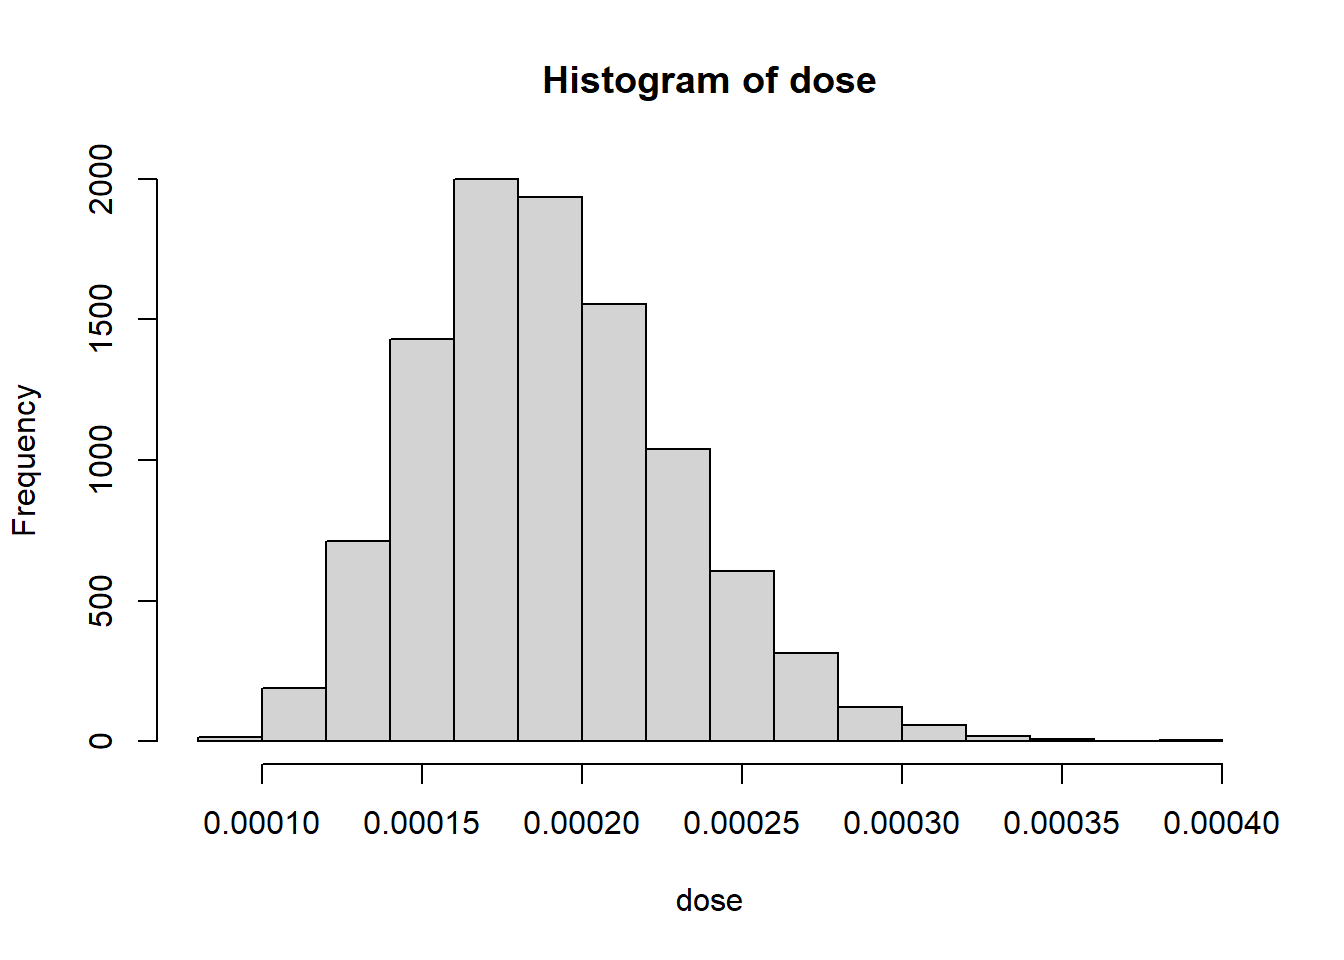
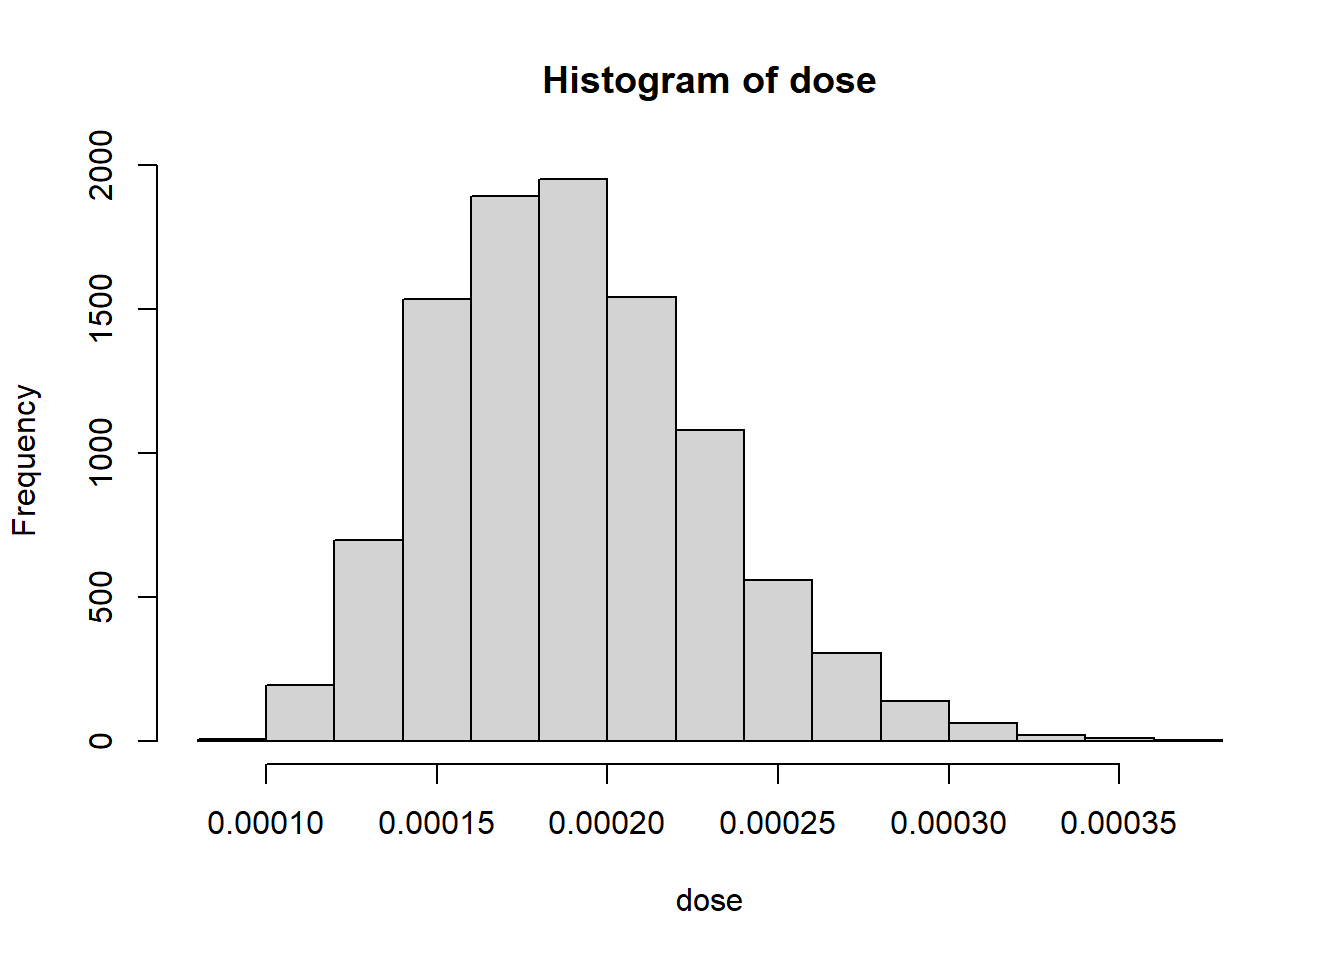
changed indent

diff --git a/docs/ex/useful_functions_with_R.html b/docs/ex/useful_functions_with_R.html
@@ -656,14 +656,14 @@ Tip
 <div class="cell">
 <div class="code-copy-outer-scaffold"><div class="sourceCode cell-code" id="cb39"><pre class="sourceCode r code-with-copy"><code class="sourceCode r"><span id="cb39-1"><a href="#cb39-1" aria-hidden="true" tabindex="-1"></a><span class="fu">runif</span>(<span class="dv">1</span>)</span></code></pre></div><button title="Copy to Clipboard" class="code-copy-button"><i class="bi"></i></button></div>
 <div class="cell-output cell-output-stdout">
-<pre><code>[1] 0.4389154</code></pre>
+<pre><code>[1] 0.1164945</code></pre>
 </div>
 </div>
 <p>Type a function that generates a uniform random number in the interval 1 to 6.</p>
 <div class="cell">
 <div class="code-copy-outer-scaffold"><div class="sourceCode cell-code" id="cb41"><pre class="sourceCode r code-with-copy"><code class="sourceCode r"><span id="cb41-1"><a href="#cb41-1" aria-hidden="true" tabindex="-1"></a><span class="fu">runif</span>(<span class="dv">1</span>,<span class="at">min=</span><span class="dv">1</span>,<span class="at">max=</span><span class="dv">6</span>)</span></code></pre></div><button title="Copy to Clipboard" class="code-copy-button"><i class="bi"></i></button></div>
 <div class="cell-output cell-output-stdout">
-<pre><code>[1] 4.200682</code></pre>
+<pre><code>[1] 3.232069</code></pre>
 </div>
 </div>
 <p>A random draw from a probability distribution can be generated by the inverse method. - Draws pp-values from a uniform distribution between 0 and 1 - Transform them into quantiles of the target distribution</p>
@@ -671,21 +671,21 @@ Tip
 <div class="cell">
 <div class="code-copy-outer-scaffold"><div class="sourceCode cell-code" id="cb43"><pre class="sourceCode r code-with-copy"><code class="sourceCode r"><span id="cb43-1"><a href="#cb43-1" aria-hidden="true" tabindex="-1"></a><span class="fu">qnorm</span>(<span class="fu">runif</span>(<span class="dv">1</span>),m,s)</span></code></pre></div><button title="Copy to Clipboard" class="code-copy-button"><i class="bi"></i></button></div>
 <div class="cell-output cell-output-stdout">
-<pre><code>[1] 13.2399</code></pre>
+<pre><code>[1] 11.46351</code></pre>
 </div>
 </div>
 <p>This is already implemented as a function</p>
 <div class="cell">
 <div class="code-copy-outer-scaffold"><div class="sourceCode cell-code" id="cb45"><pre class="sourceCode r code-with-copy"><code class="sourceCode r"><span id="cb45-1"><a href="#cb45-1" aria-hidden="true" tabindex="-1"></a><span class="fu">rnorm</span>(<span class="dv">1</span>,m,s)</span></code></pre></div><button title="Copy to Clipboard" class="code-copy-button"><i class="bi"></i></button></div>
 <div class="cell-output cell-output-stdout">
-<pre><code>[1] 13.39226</code></pre>
+<pre><code>[1] 13.19249</code></pre>
 </div>
 </div>
 <p>Draw from a beta distribution with parameters <span class="math inline">\(\alpha=2\)</span>$\alpha=2$$\alpha=2$ and <span class="math inline">\(\beta=8\)</span></p>
 <div class="cell">
 <div class="code-copy-outer-scaffold"><div class="sourceCode cell-code" id="cb47"><pre class="sourceCode r code-with-copy"><code class="sourceCode r"><span id="cb47-1"><a href="#cb47-1" aria-hidden="true" tabindex="-1"></a><span class="fu">rbeta</span>(<span class="dv">1</span>,<span class="dv">2</span>,<span class="dv">8</span>)</span></code></pre></div><button title="Copy to Clipboard" class="code-copy-button"><i class="bi"></i></button></div>
 <div class="cell-output cell-output-stdout">
-<pre><code>[1] 0.1075083</code></pre>
+<pre><code>[1] 0.1463837</code></pre>
 </div>
 </div>
 </section>
@@ -696,10 +696,10 @@ Tip
 <div class="cell">
 <div class="code-copy-outer-scaffold"><div class="sourceCode cell-code" id="cb49"><pre class="sourceCode r code-with-copy"><code class="sourceCode r"><span id="cb49-1"><a href="#cb49-1" aria-hidden="true" tabindex="-1"></a><span class="fu">rbeta</span>(<span class="at">n=</span><span class="dv">20</span>,<span class="dv">2</span>,<span class="dv">8</span>)</span></code></pre></div><button title="Copy to Clipboard" class="code-copy-button"><i class="bi"></i></button></div>
 <div class="cell-output cell-output-stdout">
-<pre><code> [1] 0.40908334 0.25498833 0.07059323 0.04408871 0.07828590 0.56522009
- [7] 0.34490201 0.19195323 0.26363697 0.34329815 0.37096871 0.17108720
-[13] 0.05290212 0.15221080 0.24060846 0.16898817 0.30825078 0.06536181
-[19] 0.11872805 0.27688217</code></pre>
+<pre><code> [1] 0.03964825 0.09618032 0.16028818 0.23790826 0.37602550 0.15302396
+ [7] 0.02134618 0.06303565 0.10219898 0.39077361 0.08569412 0.43108806
+[13] 0.22748666 0.08221924 0.11948701 0.10186709 0.49719735 0.21072554
+[19] 0.37598568 0.15199328</code></pre>
 </div>
 </div>
 <p>A beta distribution has two parameters <span class="math inline">\(\alpha\)</span> and <span class="math inline">\(\beta\)</span></p>
@@ -714,7 +714,7 @@ Tip
 </div>
 <div class="code-copy-outer-scaffold"><div class="sourceCode cell-code" id="cb53"><pre class="sourceCode r code-with-copy"><code class="sourceCode r"><span id="cb53-1"><a href="#cb53-1" aria-hidden="true" tabindex="-1"></a><span class="fu">mean</span>(<span class="fu">rbeta</span>(<span class="at">n=</span><span class="dv">20</span>,alpha,beta))</span></code></pre></div><button title="Copy to Clipboard" class="code-copy-button"><i class="bi"></i></button></div>
 <div class="cell-output cell-output-stdout">
-<pre><code>[1] 0.180674</code></pre>
+<pre><code>[1] 0.1822183</code></pre>
 </div>
 </div>
 <p>We can also derive the theoretical quantile, let us say the P95.</p>
@@ -727,7 +727,7 @@ Tip
 <div class="code-copy-outer-scaffold"><div class="sourceCode cell-code" id="cb57"><pre class="sourceCode r code-with-copy"><code class="sourceCode r"><span id="cb57-1"><a href="#cb57-1" aria-hidden="true" tabindex="-1"></a><span class="fu">quantile</span>(<span class="fu">rbeta</span>(<span class="at">n=</span><span class="dv">20</span>,alpha,beta),<span class="at">probs=</span><span class="fl">0.95</span>)</span></code></pre></div><button title="Copy to Clipboard" class="code-copy-button"><i class="bi"></i></button></div>
 <div class="cell-output cell-output-stdout">
 <pre><code>      95% 
-0.4918546 </code></pre>
+0.3892841 </code></pre>
 </div>
 </div>
 <ul>
@@ -758,7 +758,7 @@ Tip
 </div>
 <div class="code-copy-outer-scaffold"><div class="sourceCode cell-code" id="cb61"><pre class="sourceCode r code-with-copy"><code class="sourceCode r"><span id="cb61-1"><a href="#cb61-1" aria-hidden="true" tabindex="-1"></a><span class="fu">mean</span>(<span class="fu">rbeta</span>(<span class="at">n=</span>n,alpha,beta))</span></code></pre></div><button title="Copy to Clipboard" class="code-copy-button"><i class="bi"></i></button></div>
 <div class="cell-output cell-output-stdout">
-<pre><code>[1] 0.199442</code></pre>
+<pre><code>[1] 0.1990133</code></pre>
 </div>
 <div class="code-copy-outer-scaffold"><div class="sourceCode cell-code" id="cb63"><pre class="sourceCode r code-with-copy"><code class="sourceCode r"><span id="cb63-1"><a href="#cb63-1" aria-hidden="true" tabindex="-1"></a><span class="fu">qbeta</span>(<span class="fl">0.95</span>,alpha,beta)</span></code></pre></div><button title="Copy to Clipboard" class="code-copy-button"><i class="bi"></i></button></div>
 <div class="cell-output cell-output-stdout">
@@ -766,8 +766,8 @@ Tip
 </div>
 <div class="code-copy-outer-scaffold"><div class="sourceCode cell-code" id="cb65"><pre class="sourceCode r code-with-copy"><code class="sourceCode r"><span id="cb65-1"><a href="#cb65-1" aria-hidden="true" tabindex="-1"></a><span class="fu">quantile</span>(<span class="fu">rbeta</span>(<span class="at">n=</span>n,alpha,beta),<span class="at">probs=</span><span class="fl">0.95</span>)</span></code></pre></div><button title="Copy to Clipboard" class="code-copy-button"><i class="bi"></i></button></div>
 <div class="cell-output cell-output-stdout">
-<pre><code>      95% 
-0.4260269 </code></pre>
+<pre><code>     95% 
+0.423604 </code></pre>
 </div>
 </div>
 <p>Let us visualise the convergence of the approximation of the mean and 95th percentile of the beta distribution using Monte Carlo simulation.</p>
